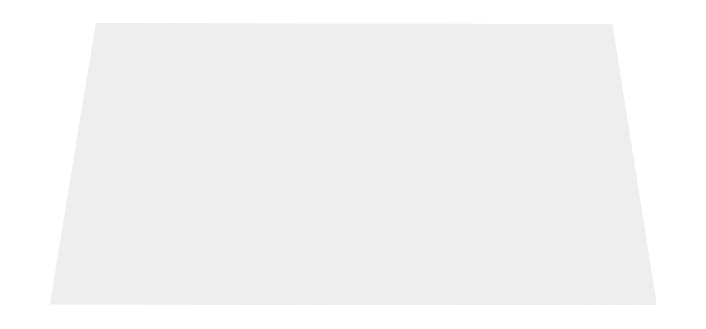
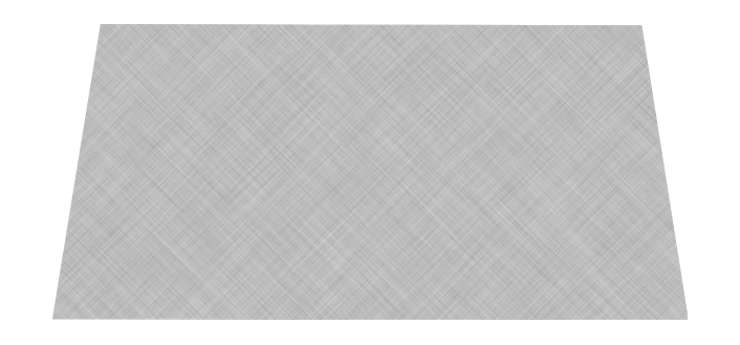
[FIX] Changed the size, pivor point and added some texture to make the rug look more natural.

diff --git a/src/assets/room_devices/ornate_rug/ornate_rug.asset.ts b/src/assets/room_devices/ornate_rug/ornate_rug.asset.ts
@@ -46,7 +46,7 @@ DefineRoomDeviceAsset({
 	},
 	pivot: {
 		x: 353,
-		y: 165,
+		y: -120,
 	},
 	graphicsLayers: [
 		{
